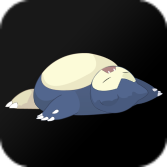
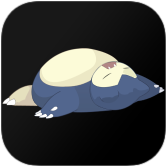
Compress resources, add a few more checks, and remove unneeded dep

Changed region(s): [[0.0, 0.0, 1.0, 1.0]]

diff --git a/Managers/IALRestoreManager.m b/Managers/IALRestoreManager.m
@@ -259,6 +259,10 @@
 				NSLog(@"[IAmLazyLog] Failed to get contents of %@! Error: %@", path, readError);
 				continue;
 			}
+			else if(![listDirContents count]){
+				NSLog(@"[IAmLazyLog] %@ has no contents!", path);
+				continue;
+			}
 
 			// grab repos' Packages files
 			NSPredicate *thePredicate = [NSPredicate predicateWithFormat:@"SELF ENDSWITH 'Packages'"];
@@ -295,14 +299,42 @@
 						}
 						else if([line hasPrefix:@"Filename:"]){
 							NSString *localFilePath = [line stringByReplacingOccurrencesOfString:@"Filename: " withString:@""];
-							if([localFilePath length]){
-								NSString *justFile = [file stringByReplacingOccurrencesOfString:path withString:@""];
-								NSString *repo = [justFile substringWithRange:NSMakeRange(0, [justFile rangeOfString:@"_"].location)];
+							if(![localFilePath length]){
+								continue;
+							}
 
-								NSPredicate *thePredicate = [NSPredicate predicateWithFormat:@"SELF CONTAINS %@", repo];
-								NSArray *repoUrl = [repoURLS filteredArrayUsingPredicate:thePredicate];
-								if([repoUrl count]){
-									NSURL *baseUrl = [NSURL URLWithString:[repoUrl firstObject]];
+							NSString *justFile = [file stringByReplacingOccurrencesOfString:path withString:@""];
+							if(![justFile length]){
+								continue;
+							}
+
+							NSString *repo = [justFile substringWithRange:NSMakeRange(0, [justFile rangeOfString:@"_"].location)];
+							if(![repo length]){
+								continue;
+							}
+
+							NSPredicate *thePredicate = [NSPredicate predicateWithFormat:@"SELF CONTAINS %@", repo];
+							NSArray *repoUrl = [repoURLS filteredArrayUsingPredicate:thePredicate];
+							if([repoUrl count]){ // count is 2
+								// confirm string is valid url (https://stackoverflow.com/a/20892574)
+								NSString *urlString = [repoUrl firstObject];
+								NSUInteger length = [urlString length];
+								if(!length){
+									continue;
+								}
+
+								NSError *initError = nil;
+								NSDataDetector *dataDetector = [NSDataDetector dataDetectorWithTypes:NSTextCheckingTypeLink error:&initError];
+								if(initError){
+									NSLog(@"[IAmLazyLog] Failed to initialize data detector! Error: %@", initError);
+									continue;
+								}
+
+								NSRange stringRange = NSMakeRange(0, length);
+								NSRange notFoundRange = (NSRange){NSNotFound, 0};
+								NSRange linkRange = [dataDetector rangeOfFirstMatchInString:urlString options:0 range:stringRange];
+								if(!NSEqualRanges(linkRange, notFoundRange) && NSEqualRanges(linkRange, stringRange)){
+									NSURL *baseUrl = [NSURL URLWithString:urlString];
 									NSURL *url = [baseUrl URLByAppendingPathComponent:localFilePath];
 									[urls addObject:url];
 								}
@@ -329,7 +361,7 @@
 		return [NSArray new];
 	}
 
-	NSArray	*tweaks = [tweakList componentsSeparatedByCharactersInSet:[NSCharacterSet newlineCharacterSet]];
+	NSArray *tweaks = [tweakList componentsSeparatedByCharactersInSet:[NSCharacterSet newlineCharacterSet]];
 	if(![tweaks count]){
 		NSLog(@"[IAmLazyLog] %@ is empty!", target);
 		return [NSArray new];
@@ -451,8 +483,11 @@
 	NSURLSession *session = [NSURLSession sessionWithConfiguration:config delegate:self delegateQueue:nil];
 	for(NSURL *url in urls){
 		NSURLRequest *request = [NSURLRequest requestWithURL:url];
-		NSURLSessionTask *task = [session downloadTaskWithRequest:request];
-		[task resume];
+		BOOL valid = [NSURLConnection canHandleRequest:request];
+		if(valid){
+			NSURLSessionTask *task = [session downloadTaskWithRequest:request];
+			[task resume];
+		}
 	}
 
 	// wait for 'done' notif
@@ -474,7 +509,6 @@
 -(void)URLSession:(NSURLSession *)session downloadTask:(NSURLSessionDownloadTask *)downloadTask didFinishDownloadingToURL:(NSURL *)location{
 	NSString *fileName = [[[downloadTask originalRequest] URL] lastPathComponent];
 	NSInteger underscore = [fileName rangeOfString:@"_"].location;
-
 	if(underscore == NSNotFound){
 		underscore = [fileName length];
 	}

diff --git a/Managers/IALBackupManager.m b/Managers/IALBackupManager.m
@@ -160,6 +160,9 @@
 	[validChars addCharactersInString:@"+-."];
 	for(NSString *control in _controlFiles){
 		NSArray *lines = [control componentsSeparatedByCharactersInSet:newlineChars];
+		if(![lines count]){
+			continue;
+		}
 
 		// get package name
 		NSString *packageLine = [[lines filteredArrayUsingPredicate:thePredicate1] firstObject];
@@ -202,6 +205,10 @@
 	NSArray *aptLists = [[NSFileManager defaultManager] contentsOfDirectoryAtPath:aptListsDir error:&readError];
 	if(readError){
 		NSLog(@"[IAmLazyLog] Failed to get contents of %@! Error: %@", aptListsDir, readError);
+		return [NSArray new];
+	}
+	else if(![aptLists count]){
+		NSLog(@"[IAmLazyLog] %@ has no contents!", aptListsDir);
 		return [NSArray new];
 	}
 
@@ -396,7 +403,12 @@
 
 	NSString *theOne = [relevantControls firstObject];
 	NSString *noStatusLine = [theOne stringByReplacingOccurrencesOfString:@"Status: install ok installed\n" withString:@""]; // dpkg adds this at installation
-	NSString *info = [noStatusLine stringByAppendingString:@"\n"]; // ensure final newline (deb will fail to build if missing)
+	if(![noStatusLine length]){
+		return;
+	}
+
+	// ensure final newline (deb will fail to build if missing)
+	NSString *info = [noStatusLine stringByAppendingString:@"\n"];
 
 	// make DEBIAN dir
 	NSFileManager *fileManager = [NSFileManager defaultManager];
@@ -433,6 +445,11 @@
 	NSArray *tmp = [[NSFileManager defaultManager] contentsOfDirectoryAtPath:tmpDir error:&readError];
 	if(readError){
 		NSString *msg = [NSString stringWithFormat:@"Failed to get contents of %@! Error: %@", tmpDir, readError];
+		[_generalManager displayErrorWithMessage:msg];
+		return;
+	}
+	else if(![tmp count]){
+		NSString *msg = [NSString stringWithFormat:@"%@ has no contents!", tmpDir];
 		[_generalManager displayErrorWithMessage:msg];
 		return;
 	}
@@ -489,7 +506,9 @@
 		NSCharacterSet *nonNumericChars = [[NSCharacterSet decimalDigitCharacterSet] invertedSet];
 		NSMutableArray *numbers = [[latest componentsSeparatedByCharactersInSet:nonNumericChars] mutableCopy];
 		[numbers removeObject:@""]; // array contains numbers and an empty string(s); we only want the numbers
-		latestBackup = [[numbers lastObject] intValue]; // supports both the current and legacy naming schemes
+		if([numbers count]){
+			latestBackup = [[numbers lastObject] intValue]; // supports both the current and legacy naming schemes
+		}
 	}
 
 	// grab date in desired format

diff --git a/Managers/IALGeneralManager.m b/Managers/IALGeneralManager.m
@@ -39,7 +39,7 @@
 
 -(void)makeBackupOfType:(NSInteger)type withFilter:(BOOL)filter{
 	// reset errors
-	[self setEncounteredError:NO];
+	_encounteredError = NO;
 
 	if(!_backupManager) _backupManager = [[IALBackupManager alloc] init];
 	[_backupManager setGeneralManager:self];
@@ -54,7 +54,7 @@
 	}
 
 	// reset errors
-	[self setEncounteredError:NO];
+	_encounteredError = NO;
 
 	if(!_restoreManager) _restoreManager = [[IALRestoreManager alloc] init];
 	[_restoreManager setGeneralManager:self];
@@ -93,8 +93,7 @@
 		[self displayErrorWithMessage:msg];
 		return;
 	}
-
-	if(![contents count]){
+	else if(![contents count]){
 		return;
 	}
 
@@ -130,6 +129,10 @@
 	NSArray *backupDirContents = [[NSFileManager defaultManager] contentsOfDirectoryAtPath:backupDir error:&readError];
 	if(readError){
 		[self displayErrorWithMessage:[NSString stringWithFormat:@"Failed to get contents of %@! Error: %@", backupDir, readError]];
+		return [NSArray new];
+	}
+	else if(![backupDirContents count]){
+		[self displayErrorWithMessage:[NSString stringWithFormat:@"%@ has no contents!", backupDir]];
 		return [NSArray new];
 	}
 

diff --git a/AndSoAreYou/AndSoAreYou.m b/AndSoAreYou/AndSoAreYou.m
@@ -203,9 +203,13 @@ int main(int argc, char *argv[]){
 				continue;
 			}
 
-			NSError *writeError = nil;
 			// remove tweakName prefix and copy file
 			NSString *strippedName = [file stringByReplacingOccurrencesOfString:[tweakName stringByAppendingString:@"."] withString:@""];
+			if(![strippedName length]){
+				continue;
+			}
+
+			NSError *writeError = nil;
 			[fileManager copyItemAtPath:filePath toPath:[debian stringByAppendingPathComponent:strippedName] error:&writeError];
 			if(writeError){
 				NSLog(@"[IAmLazyLog] AndSoAreYou: Failed to copy %@! Error: %@", filePath, writeError);

diff --git a/UI/IALTableViewCell.m b/UI/IALTableViewCell.m
@@ -100,7 +100,6 @@
 		function: 0 = standard|latest | 1 = unfiltered|specific
 	*/
 
-	// backup cell
 	if(purpose == 0){
 		if(type == 0){
 			if(function == 0) image = [UIImage systemImageNamed:@"plus.app"];
@@ -111,7 +110,6 @@
 			else image = [UIImage systemImageNamed:@"exclamationmark.circle"];
 		}
 	}
-	// restore cell
 	else{
 		if(type == 0){
 			if(function == 0) image = [UIImage systemImageNamed:@"arrow.counterclockwise.circle"];

diff --git a/UI/IALProgressViewController.m b/UI/IALProgressViewController.m
@@ -259,7 +259,7 @@
 
 -(void)updateProgress:(NSNotification *)notification{
 	CGFloat item = [(NSString *)notification.object floatValue];
-	NSUInteger itemInt = ceil(item);
+	NSInteger itemInt = ceil(item);
 	BOOL isInteger = item == itemInt;
 
 	// Note: colorWithRed:green:blue:alpha: seems to use sRGB, not Adobe RGB (https://stackoverflow.com/a/40052756)

diff --git a/UI/IALBackupsViewController.m b/UI/IALBackupsViewController.m
@@ -169,7 +169,7 @@
 }
 
 -(void)documentPicker:(UIDocumentPickerViewController *)controller didPickDocumentsAtURLs:(NSArray<NSURL *> *)urls{
-	// url array count will be >= 1
+	// urls count will always be 1
 	NSURL *url = [urls firstObject];
 
 	// Note: need to have the path be /destDir/filename.extension otherwise it'll try to overwrite the destDir??
